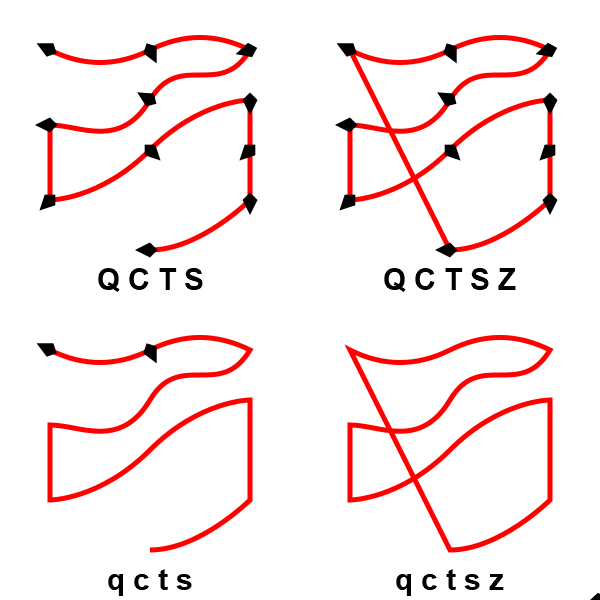
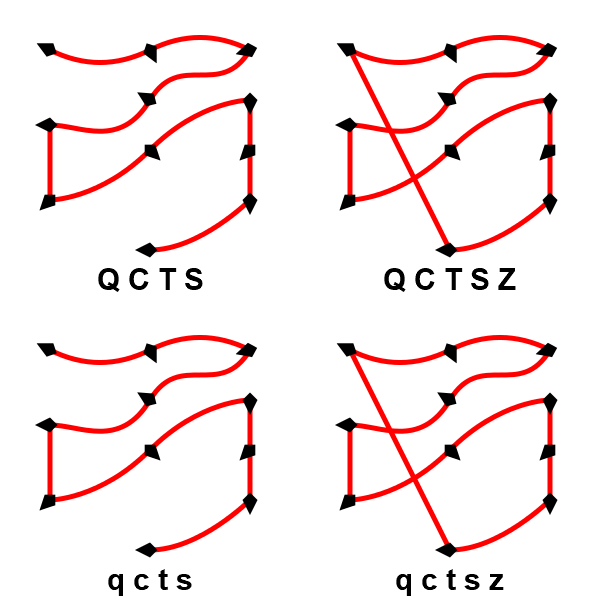
Update images & add to-do

diff --git a/sahara/node_vertices_tests/README.md b/sahara/node_vertices_tests/README.md
@@ -6,7 +6,14 @@ Column explanation:
 * **AgC/main**: this repo's [`main`](https://github.com/SilverCardioid/CairoSVG/) branch, my own work-in-progress fork of CairoSVG (currently functionally the same)
 * **AgC/master**: the [`master`](https://github.com/SilverCardioid/CairoSVG/tree/master) branch, used for proposing minor changes to Kozea/CairoSVG and otherwise kept in sync with it
 
-The rightmost images are visualisatiosn of the `node.vertices` array, which is internally used for the marker positions and angles. For each vertex, the calculated direction of the outgoing path segment is green, and that of the incoming segment (pointing away from it) is purple. Grey means the two overlap.
+The rightmost images are visualisations of the `node.vertices` array, which is internally used for the marker positions and angles. For each vertex, the calculated direction of the outgoing path segment is green, and that of the incoming segment (pointing away from it) is purple. Grey means the two overlap.
+
+## Still to fix in AgC/master
+* [ ] Determining marker angles from vertex angles
+* [ ] Elliptic curve angles
+* [ ] Degenerate curve angles
+* [ ] Closepath angles
+* [ ] Start/end vs. mid markers
 
 ## Lines (L, H, V)
 |     |     |     |
